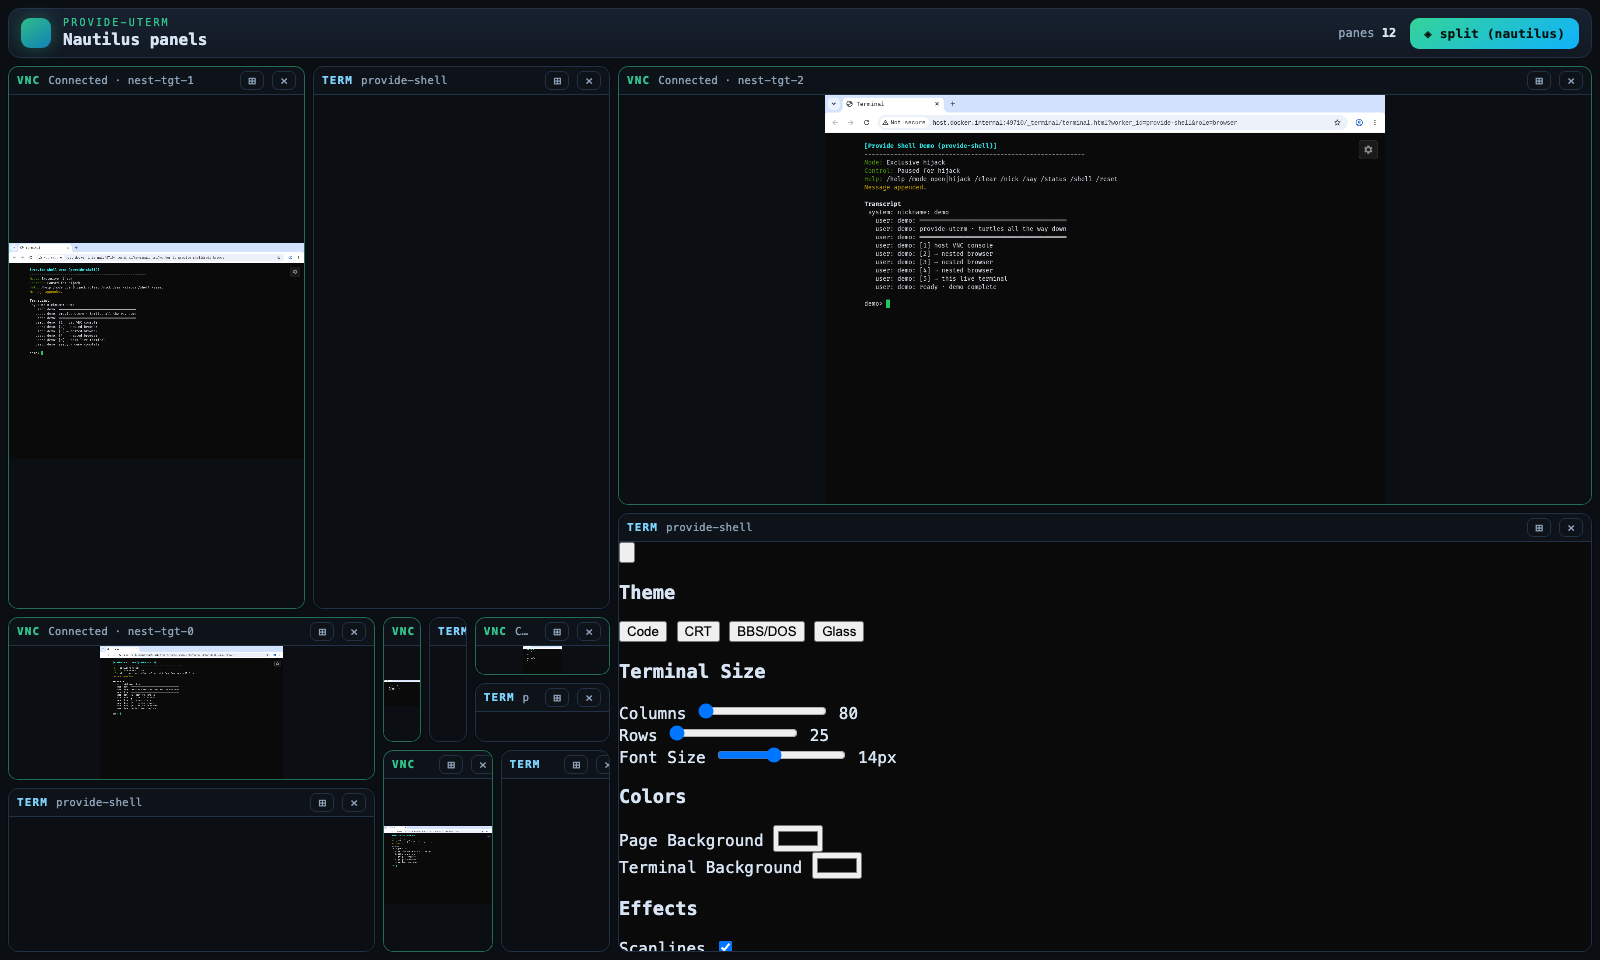
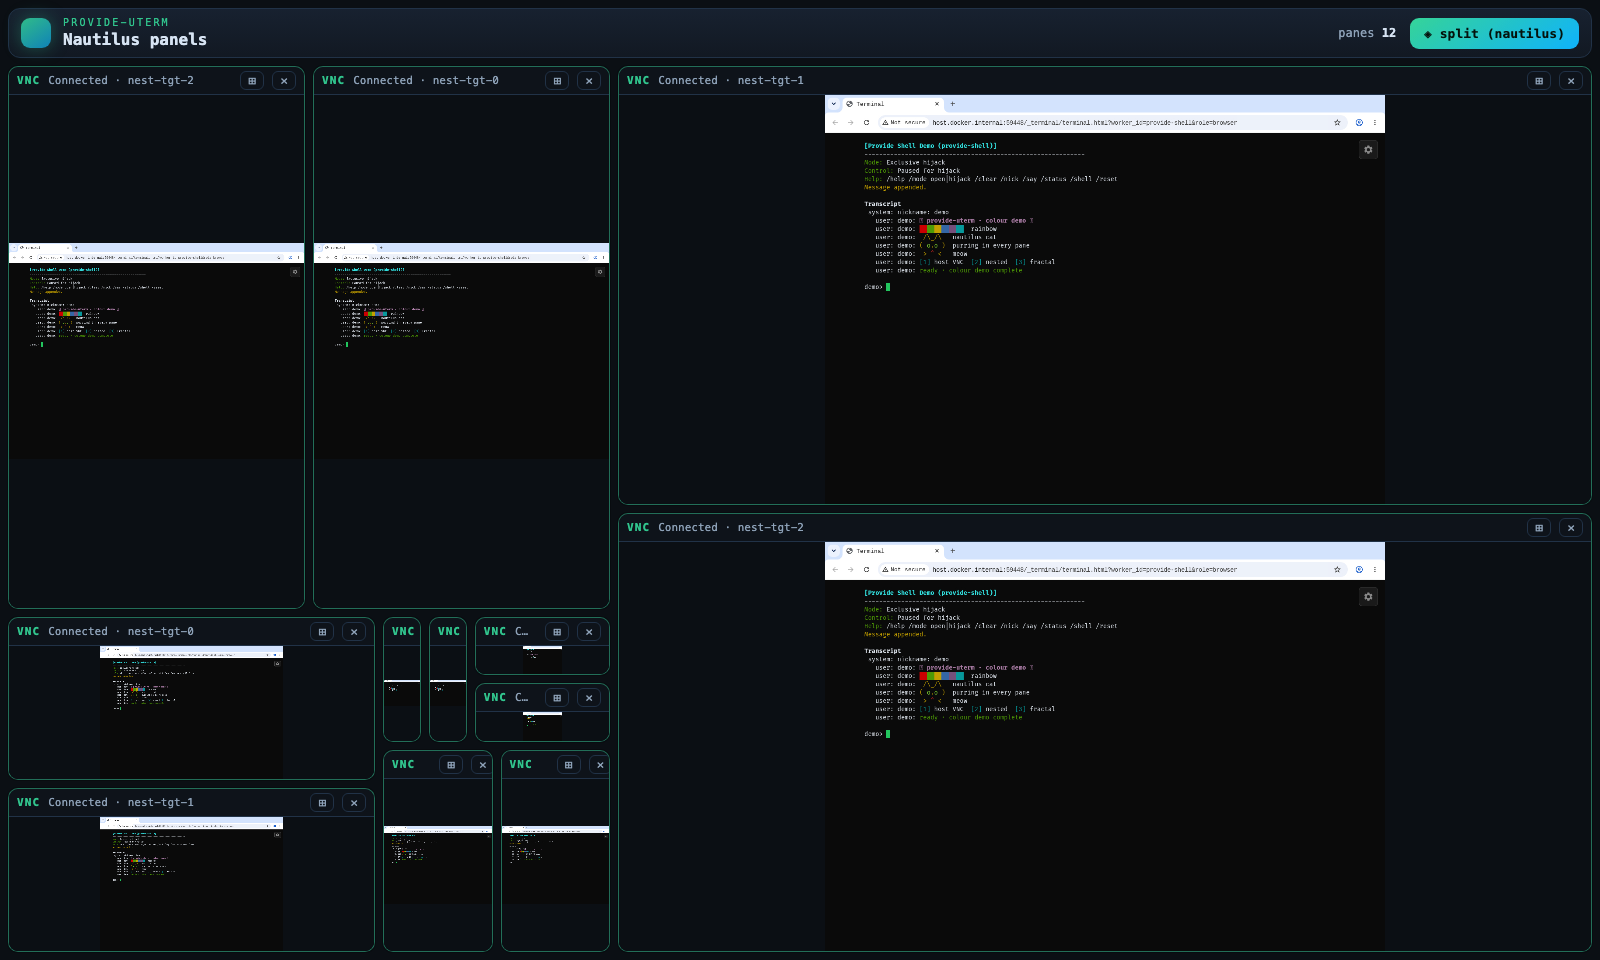
feat(vnc): colour/cat scene in every nautilus pane, shrinking with the pane
Play the colour demo (ANSI rainbow bar + a little cat, which /say passes
through verbatim) in all of the nautilus panes, scaling down as they spiral
inward:

- Seed the shared shell with a colour/cat transcript.
- Render the demo's terminal leaves as VNC-of-terminal (paneFor falls back to
  the VNC pool when no terminal pool is given): every pane shows the same live
  colour terminal through the relay, and noVNC's scale-viewport shrinks the
  desktop — so the font shrinks with the pane and the whole transcript stays
  visible even in the smallest corner panes.
- Drop the CSS-transform terminal stage (it broke xterm's canvas measurement);
  a direct uterm-terminal already shrinks its own font via fitWithMinCols.
- panels.html loads the terminal component CSS (hides each pane's settings
  drawer) for the terminal-pool path.

diff --git a/packages/provide-uterm-frontend/src/panels.ts b/packages/provide-uterm-frontend/src/panels.ts
@@ -163,18 +163,19 @@ export class PanelsPage {
     el.append(bar, host);
     const src = this.nextTerm();
     const badge = bar.querySelector<HTMLElement>(".pane-badge");
-    let widget: { connect?: () => void } | null = null;
     if (src) {
+      // uterm-terminal's own ResizeObserver shrinks the font (min 6px) to keep
+      // ~80 columns fitting, so as the nautilus panes get smaller the text
+      // scales down and the whole transcript stays visible — no CSS transform
+      // (which breaks xterm's canvas measurement).
       const w = document.createElement("uterm-terminal") as unknown as {
         config: Record<string, unknown>;
         connect?: () => void;
       };
       w.config = { wsUrl: `/ws/${src.role}/${src.workerId}/term`, title: src.workerId };
       host.appendChild(w as unknown as HTMLElement);
-      widget = w;
       if (badge) badge.textContent = src.workerId;
-      // Element self-loads settings on connectedCallback; open the socket next tick.
-      window.setTimeout(() => widget?.connect?.(), 0);
+      window.setTimeout(() => w.connect?.(), 0);
     } else if (badge) {
       badge.textContent = "no term source";
     }
@@ -208,7 +209,12 @@ export class PanelsPage {
   private paneFor(leaf: Leaf): HTMLElement {
     let mounted = this.panes.get(leaf.id);
     if (!mounted) {
-      mounted = leaf.pane === "vnc" ? this.mountVnc(leaf) : this.mountTerminal(leaf);
+      // A terminal leaf with no terminal source but a VNC pool available renders
+      // as a VNC-of-terminal (noVNC scale-viewport shrinks the desktop, so its
+      // font shrinks with the pane) — used when every pane should show the same
+      // live terminal through the relay.
+      const asVnc = leaf.pane === "vnc" || (this.termPool.length === 0 && this.vncPool.length > 0);
+      mounted = asVnc ? this.mountVnc(leaf) : this.mountTerminal(leaf);
       this.panes.set(leaf.id, mounted);
     }
     return mounted.el;

diff --git a/packages/provide-uterm-frontend/panels.html b/packages/provide-uterm-frontend/panels.html
@@ -6,6 +6,9 @@
   <title>provide-uterm · Panels</title>
   <link href="https://fonts.googleapis.com/css2?family=Fira+Code:wght@400;600;700&display=swap" rel="stylesheet">
   <link rel="stylesheet" href="https://cdn.jsdelivr.net/npm/@xterm/xterm@6.0.0/css/xterm.css" integrity="sha384-n2n7twoohnW+d3myBKaUgl7DSiwidw6MkQy9oesGzkPpMjejKRR3XlnD+5yCdtBD" crossorigin="anonymous">
+  <!-- Terminal component styles (scoped under .provide-uterm): hides each pane's
+       settings drawer by default and themes the embedded xterm. -->
+  <link rel="stylesheet" href="static/terminal.css">
   <link rel="stylesheet" href="static/panels.css">
 </head>
 <body>

diff --git a/packages/provide-uterm-frontend/static/panels.css b/packages/provide-uterm-frontend/static/panels.css
@@ -213,6 +213,8 @@ body {
   align-items: center;
   justify-content: center;
 }
+/* uterm-terminal fills the pane; its own fit logic shrinks the font to keep
+   ~80 columns visible as the pane gets smaller. */
 .pane-term .pane-screen {
   align-items: stretch;
   justify-content: stretch;

diff --git a/scripts/record_uterm_vnc_nested_demo.py b/scripts/record_uterm_vnc_nested_demo.py
@@ -49,19 +49,20 @@ NEST_LEASE_WORKERS = [f"nest-vnc-{i}" for i in range(LEVELS)]
 SHELL_SESSION = base.SHELL_SESSION
 LAB_GEOMETRY = base.LAB_GEOMETRY
 
-# Innermost terminal content (seeded before recording so the deepest frame reads).
+# Innermost terminal content (seeded before recording so every pane reads).
+# ANSI escapes ride through /say verbatim (the shell connector doesn't strip
+# them), so the transcript renders in colour — a rainbow bar + a little cat.
+_ESC = "\x1b"
 SEED_LINES = [
     "/clear\r",
     "/nick demo\r",
-    "/say ════════════════════════════════════════\r",
-    "/say   provide-uterm · turtles all the way down\r",
-    "/say ════════════════════════════════════════\r",
-    "/say [1] host VNC console\r",
-    "/say [2] → nested browser\r",
-    "/say [3] → nested browser\r",
-    "/say [4] → nested browser\r",
-    "/say [5] → this live terminal\r",
-    "/say ready · demo complete\r",
+    f"/say {_ESC}[1;35m✦ provide-uterm · colour demo ✦{_ESC}[0m\r",
+    f"/say {_ESC}[41m  {_ESC}[42m  {_ESC}[43m  {_ESC}[44m  {_ESC}[45m  {_ESC}[46m  {_ESC}[0m  rainbow\r",
+    f"/say {_ESC}[33m /\\_/\\ {_ESC}[0m  nautilus cat\r",
+    f"/say {_ESC}[33m( {_ESC}[92mo{_ESC}[33m.{_ESC}[92mo{_ESC}[33m ){_ESC}[0m  purring in every pane\r",
+    f"/say {_ESC}[33m > {_ESC}[91m^{_ESC}[33m < {_ESC}[0m  meow\r",
+    f"/say {_ESC}[36m[1]{_ESC}[0m host VNC  {_ESC}[36m[2]{_ESC}[0m nested  {_ESC}[36m[3]{_ESC}[0m fractal\r",
+    f"/say {_ESC}[32mready · colour demo complete{_ESC}[0m\r",
 ]
 
 

diff --git a/scripts/record_uterm_vnc_panels_demo.py b/scripts/record_uterm_vnc_panels_demo.py
@@ -110,7 +110,10 @@ def main(argv: list[str] | None = None) -> int:
         vnc_pool = ",".join(
             f"{w}~{h}~{t}" for w, h, t in zip(nested.NEST_LEASE_WORKERS, hids, nested.NEST_TARGETS, strict=True)
         )
-        panels_url = f"{base_url}/_terminal/panels.html?vnc={vnc_pool}&term={base.SHELL_SESSION}~browser"
+        # No `term` pool: every pane (including the terminal leaves) renders as a
+        # VNC-of-terminal, so all panes show the live colour/cat demo and shrink
+        # via noVNC's scale-viewport as the nautilus spirals inward.
+        panels_url = f"{base_url}/_terminal/panels.html?vnc={vnc_pool}"
         lines.append(f"panels_url={panels_url}")
 
         from playwright.sync_api import sync_playwright
